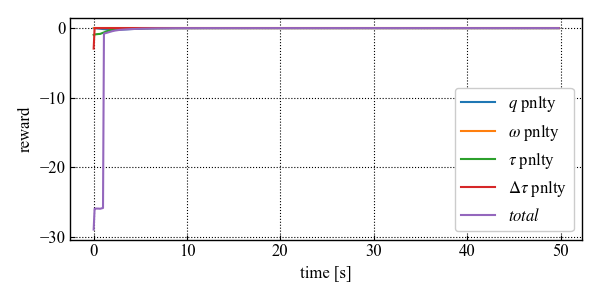
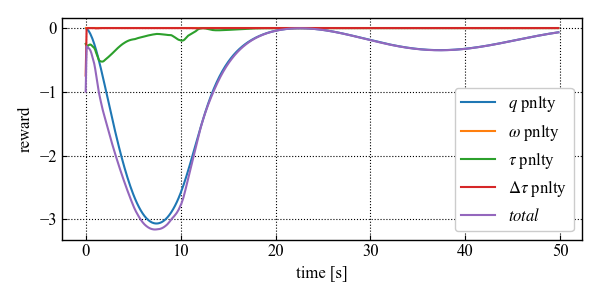
CHNAGE: hyper parameters

diff --git a/sac/train.py b/sac/train.py
@@ -17,7 +17,7 @@ def train():
     #logger
     wandb.init(project='Para-Tune-RL-SAC',
         config={
-        "batch_size": 256,
+        "batch_size": 64,
         "critic_lr": 1e-3,
         "actor_lr": 1e-4,
         "alpha_lr": 1e-4,
@@ -25,7 +25,7 @@ def train():
         "max_steps": 500,
         "gamma": 0.99,
         "tau" : 1e-3,
-        "alpha" :0.6,
+        "alpha" :0.4,
         "buffer_maxlen": 100000,
         "policy_type": "Gaussian",
         "target_update_interval": 2,
